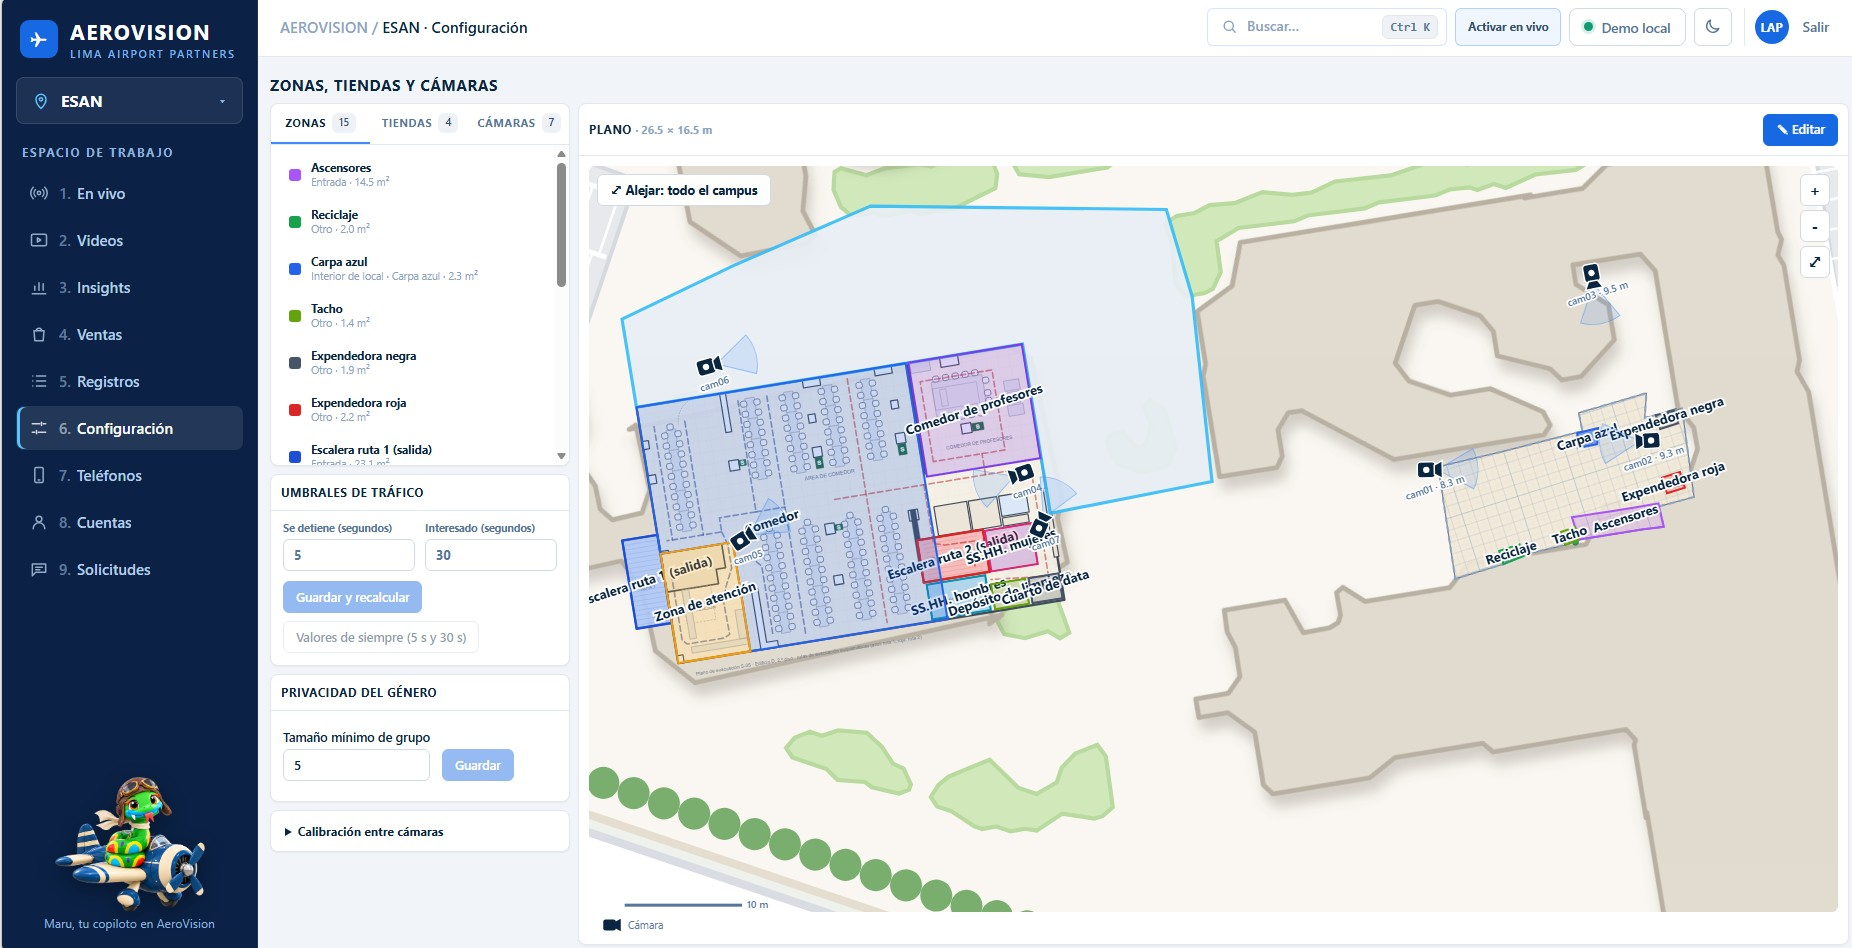
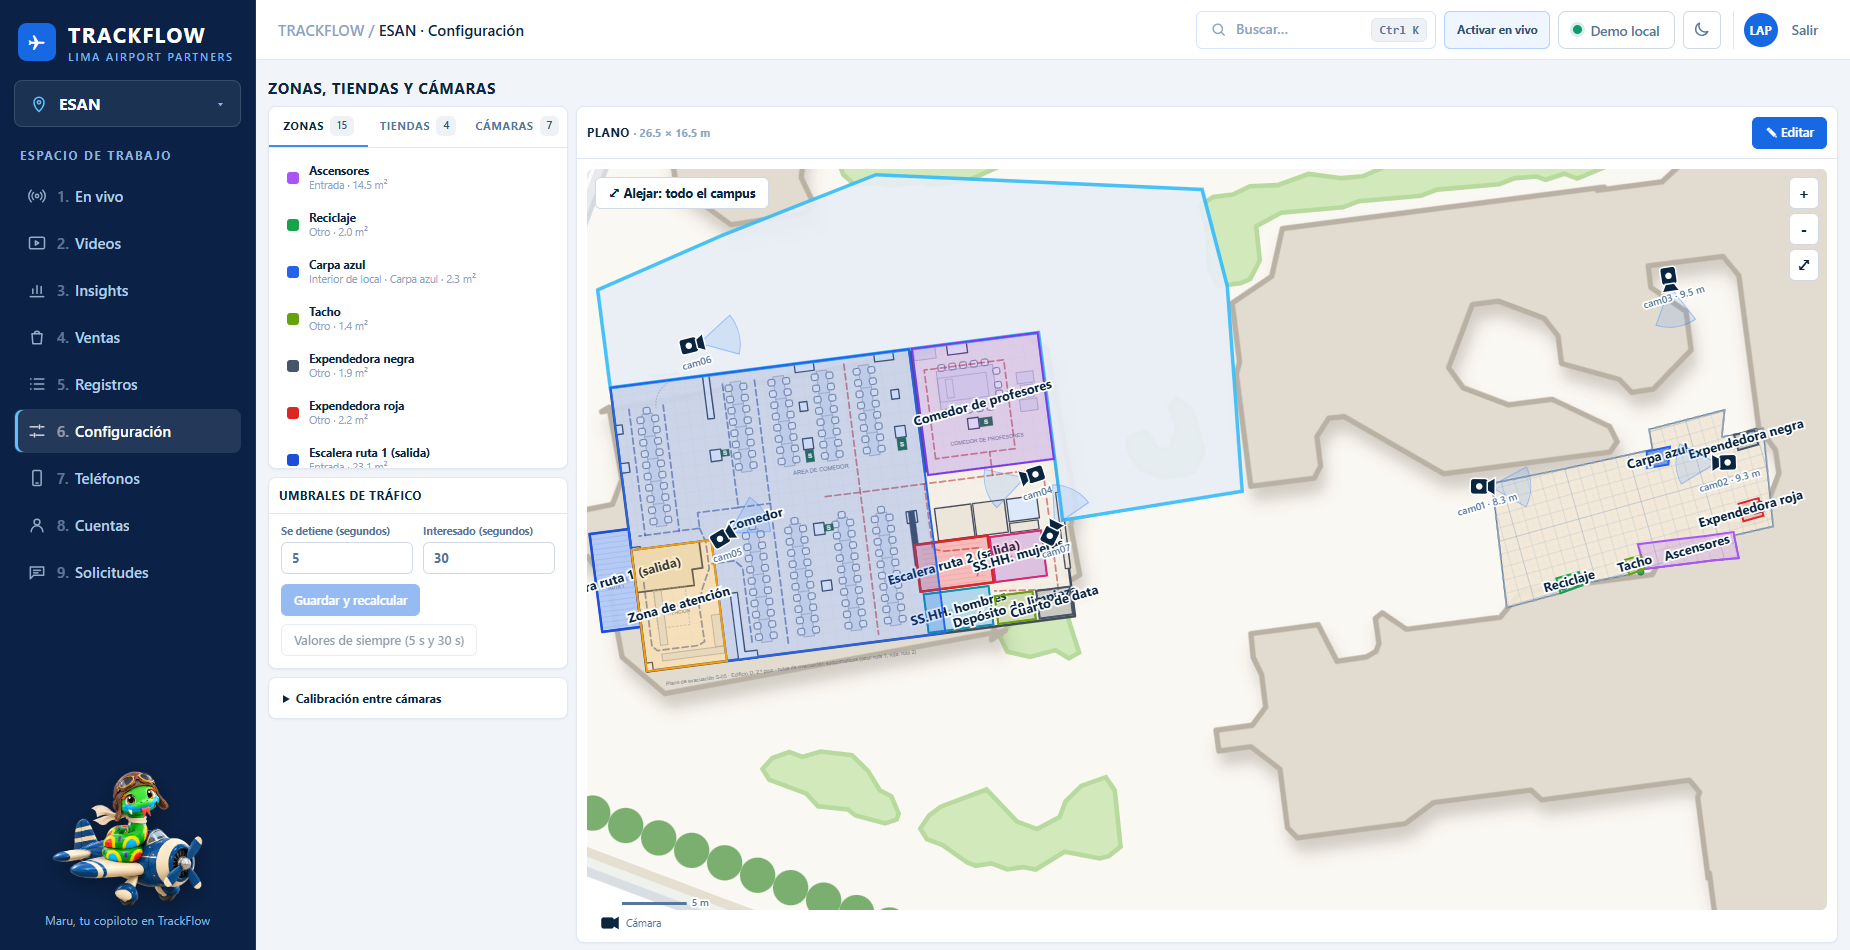
Figuras al día con TrackFlow y sin género. Diagramas: base de datos sin session_gender_counts ni sites.min_group_size (migración 022) y con el pie «Sin imágenes, rostros ni género»; arquitectura con modelo-vivo «YOLO26 y Re-ID» (fuera CLIP); backend con domain «entidades, validaciones y errores», vi

diff --git a/informe_aeropuerto_2026.tex b/informe_aeropuerto_2026.tex
@@ -3927,7 +3927,7 @@ agregada:
 \section{Casos de prueba en ESAN}
 \label{sec:validacion-esan}
 
-El sistema se probó en el campus de la Universidad ESAN en cuatro pruebas de campo: la primera en el patio en forma de L entre los Edificios A y B, la segunda en el comedor, la tercera en el pasillo exterior del Edificio D y la cuarta, con mucha más gente, de nuevo en el patio y en el pasillo. En ellas ayudaron estudiantes de ESAN, que recorrieron las zonas grabadas frente a las cámaras (Figura~\ref{fig:pruebas-participantes}, en el Anexo).
+El sistema se probó en el campus de la Universidad ESAN en cuatro pruebas de campo: la primera en el patio en forma de L entre los Edificios A y B, la segunda en el comedor, la tercera en el pasillo exterior del Edificio D y la cuarta, con mucha más gente, de nuevo en el patio y en el pasillo. En ellas ayudaron estudiantes de ESAN, que recorrieron las zonas grabadas frente a las cámaras (Figura~\ref{fig:pruebas-participantes}, en el Anexo). Las capturas de pantalla de estas pruebas son de la plataforma de esas fechas, que se llamaba AeroVision y todavía estimaba el género; por eso algunas muestran ese nombre y conteos de hombres y mujeres, que se retiraron después del sistema (Sección~\ref{sec:analisis-legal}).
 
 \subsection{Primera prueba: ESAN, Edificios A y B}
 
@@ -5168,6 +5168,10 @@ nueve secciones, y cada rol ve solo las suyas:
     \item \textbf{Cuentas:} cuentas, accesos, bitácora y privacidad.
     \item \textbf{Solicitudes:} cambios de correo y permisos de exportación.
 \end{enumerate}
+
+Las Figuras~\ref{fig:web-videos} a~\ref{fig:web-insights-pdf} vienen de las
+pruebas de campo y muestran todavía el nombre anterior, AeroVision, y el
+género, que el sistema ya no estima; las demás son de la versión actual.
 
 \begin{figure}[H]
 \centering
